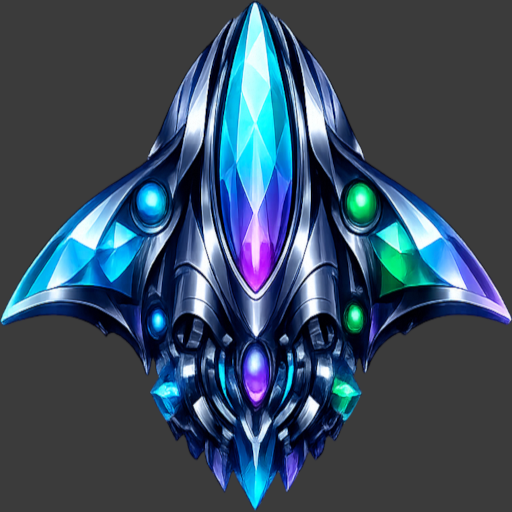
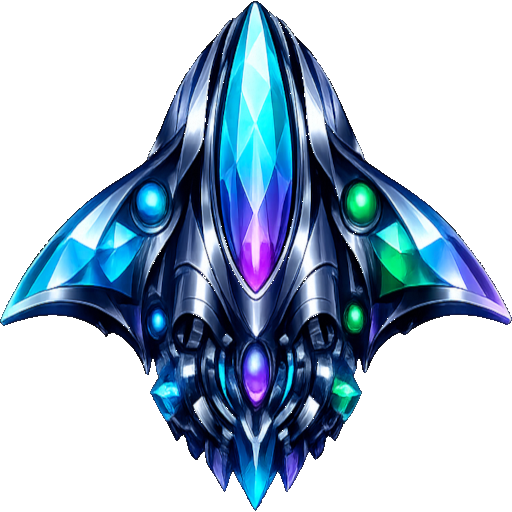
fix: v3.0.4 — nebula on map edge, higher opacity; commit updated sprites
Nebula blobs now centered at the map boundary (±400px) instead of scattered
up to 1400px inward, so the hazard border is actually visible at the edge.
Alpha raised to 0.10–0.25 (was 0.03–0.10) and blob count 60 (was 42).
Also commits fixed-transparency ship.webp, station.webp, asteroid.webp.

diff --git a/game.js b/game.js
@@ -414,18 +414,18 @@ function genWorld() {
   for(let i=0;i<350;i++)
     S.bgStars.push({x:nr()*MAP,y:nr()*MAP,r:nr()*1.5+0.3,a:nr()*0.7+0.3});
 
-  // Nebula blobs — clustered near all four map edges
+  // Nebula blobs — centered on all four map edges, extending inward
   const NEBULA_COLS=['#cc2200','#aa1133','#881144','#6611aa','#441166','#991122'];
   S.nebula=[];
-  const nebulaEdge=1400; // how far inward blobs can reach
-  for(let i=0;i<42;i++){
+  for(let i=0;i<60;i++){
     let nx,ny;
     const side=i%4;
-    if(side===0){nx=rn(0,MAP);           ny=rn(0,nebulaEdge);}
-    else if(side===1){nx=rn(0,MAP);      ny=rn(MAP-nebulaEdge,MAP);}
-    else if(side===2){nx=rn(0,nebulaEdge);ny=rn(0,MAP);}
-    else             {nx=rn(MAP-nebulaEdge,MAP);ny=rn(0,MAP);}
-    S.nebula.push({x:nx,y:ny,r:rn(420,1300),a:nr()*0.07+0.03,
+    const spread=400; // how far centers stray from the exact edge line
+    if(side===0){nx=rn(0,MAP); ny=rn(-spread,spread);}
+    else if(side===1){nx=rn(0,MAP); ny=rn(MAP-spread,MAP+spread);}
+    else if(side===2){nx=rn(-spread,spread); ny=rn(0,MAP);}
+    else             {nx=rn(MAP-spread,MAP+spread); ny=rn(0,MAP);}
+    S.nebula.push({x:nx,y:ny,r:rn(500,1400),a:nr()*0.15+0.10,
                    col:NEBULA_COLS[ri(0,NEBULA_COLS.length)]});
   }
 

diff --git a/version.js b/version.js
@@ -1,1 +1,1 @@
-window.GAME_VER = 'v3.0.3';
+window.GAME_VER = 'v3.0.4';
